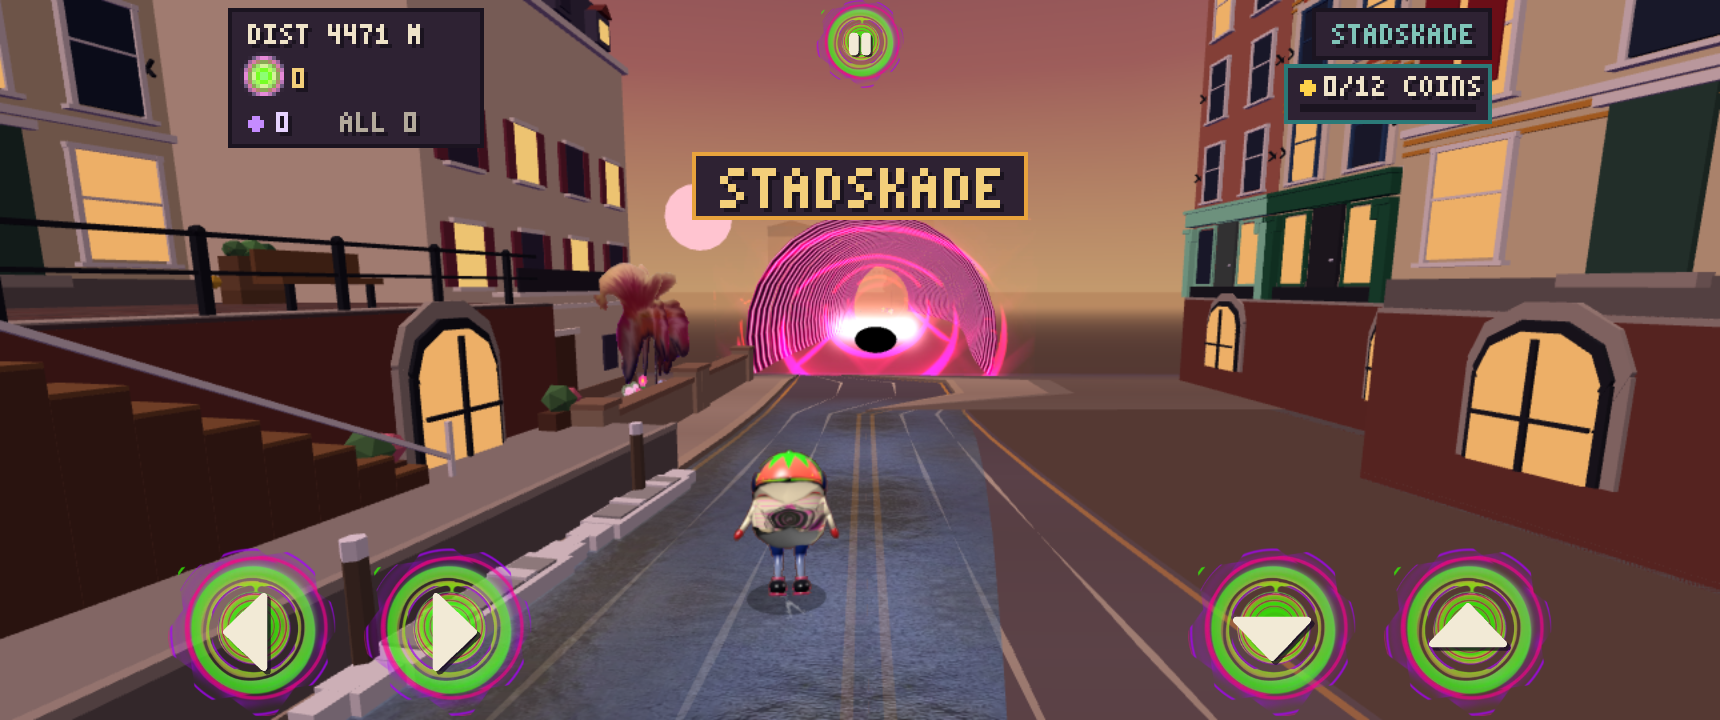
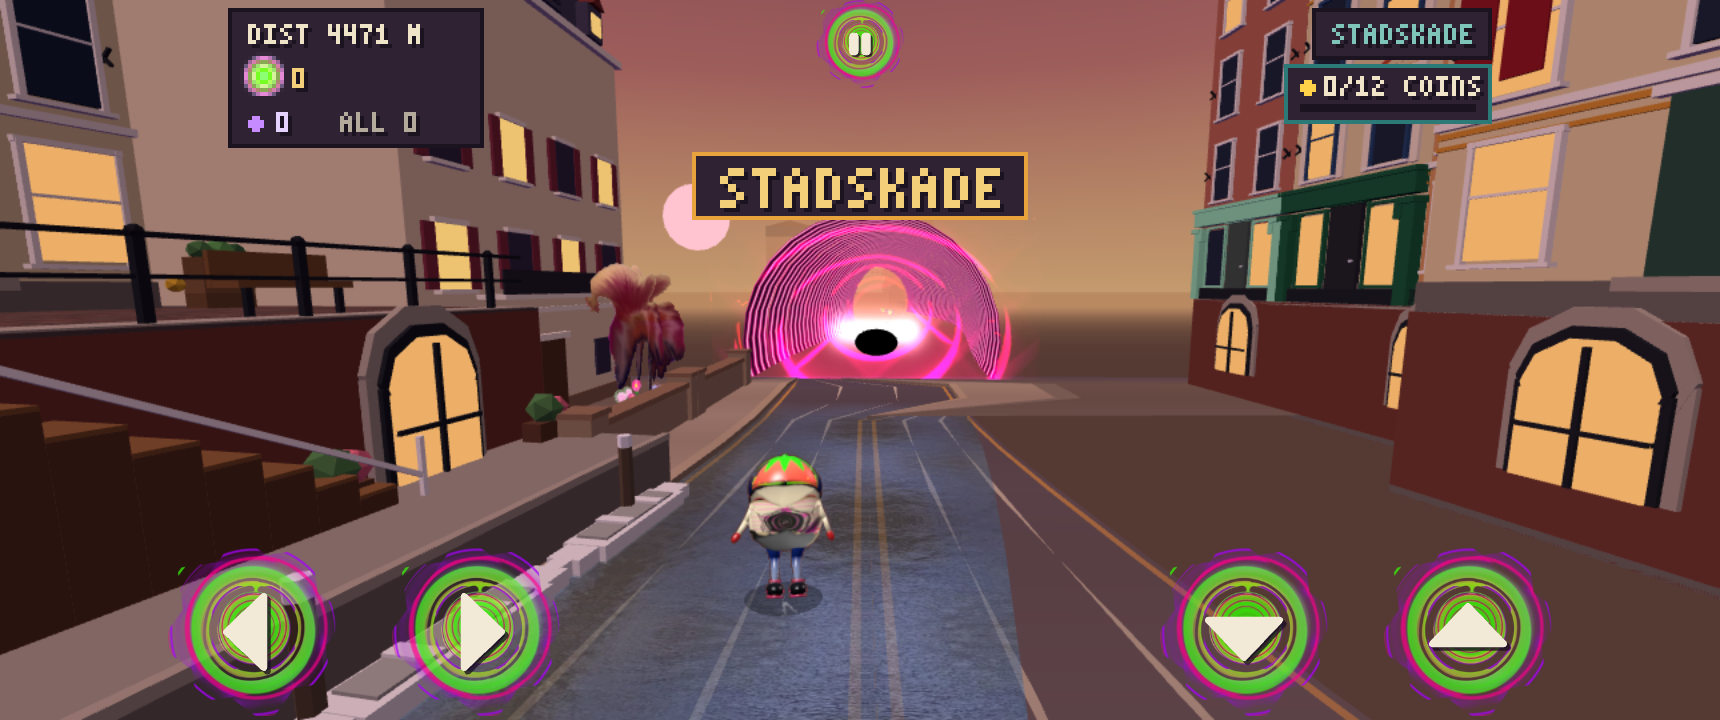
Touch buttons: 10 px of space inside each pair (left/right, slide/jump), outer buttons stay at the edges; capture

diff --git a/tests/qa3d_controls.js b/tests/qa3d_controls.js
@@ -71,7 +71,7 @@ const res = []; const T = (n, ok, i = '') => { res.push(ok); console.log((ok ? '
   T('a pressed button EASES: a frame after the press the left button is ' + U.ease1[0] + ' wide (not yet 46.2), half a second (30 frames) later ' + U.ease2[0] + ' (1.1 x 42 = 46.2) and lit (shadow glow ' + U.glow.toFixed(1) + ' px), and eased back down when released (' + U.back1[0] + ' then ' + U.back2[0] + '); the others stay 42 (' + U.ease2.slice(1).join(', ') + '); nothing is drawn off touch devices (' + U.inkNoTouch + ') or outside play (' + U.inkNotPlay + '), and a fade-in covers them (alpha ' + U.fade + ')',
     U.ease1[0] > 42 && U.ease1[0] < 45.5 && Math.abs(U.ease2[0] - 46.2) < 0.2 && U.glow > 1 && U.back1[0] > 42.2 && U.back1[0] < 46.1 && Math.abs(U.back2[0] - 42) < 0.4 && U.ease2.slice(1).filter(w => Math.abs(w - 42) < 0.01 || Math.abs(w - 22) < 0.01).length === 4 && U.inkOn && U.inkNoTouch === 0 && U.inkNotPlay === 0 && U.fade < 0.9, JSON.stringify({ ease1: U.ease1, ease2: U.ease2, back1: U.back1, back2: U.back2, glow: U.glow, fade: U.fade }));
   T('touch buttons: the hit boxes grew with the buttons (46 x 42 instead of 38 x 32 for left, right, slide and jump, 30 x 18 for pause), each centred on its picture, inside the 320 x 180 screen and clear of each other and of the HOP OFF button of the scooter (inert on foot); without the smooth canvas the pixel buttons are drawn as before (' + (U.fallback.sheet || []).join(' x ') + ' sheet, ' + U.fallback.sizes.join(' / ') + ' px, a held one ' + U.fallback.held + ')',
-    U.boxes === 'left:-15:137:46:42 right:34:137:46:42 slide:240:137:46:42 jump:289:137:46:42 pause:145:2:30:18 scooter:132:154:56:20' && U.inside && U.apart && U.fallback.sheet && U.fallback.sheet[0] === 64 && U.fallback.sheet[1] === 42 && U.fallback.sizes.filter(w => w === 42).length === 4 && U.fallback.sizes.filter(w => w === 22).length === 1 && U.fallback.held === 46, U.boxes);
+    U.boxes === 'left:-15:137:46:42 right:41:137:46:42 slide:233:137:46:42 jump:289:137:46:42 pause:145:2:30:18 scooter:132:154:56:20' && U.inside && U.apart && U.fallback.sheet && U.fallback.sheet[0] === 64 && U.fallback.sheet[1] === 42 && U.fallback.sizes.filter(w => w === 42).length === 4 && U.fallback.sizes.filter(w => w === 22).length === 1 && U.fallback.held === 46, U.boxes);
   // a real touch on the smooth button goes through to the game: on a phone-like page (touch, 2x), a tap on the jump button jumps and a press on the left button steers
   { const ctx = await b.newContext({ viewport: { width: 640, height: 360 }, deviceScaleFactor: 2, hasTouch: true, isMobile: true }), pt = await ctx.newPage(); const e2 = []; pt.on('pageerror', e => e2.push(e.message));
     await pt.goto(process.env.TEST_URL || 'http://localhost:' + PORT + '/', { timeout: 90000 }); await pt.waitForFunction(() => window.__wf, null, { timeout: 90000 }); await pt.waitForTimeout(800);

diff --git a/src/game.js b/src/game.js
@@ -12,8 +12,8 @@ const BTN = {
 // touch controls (canvas pixels): hold left/right to steer, tap jump/slide/pause; each finger is tracked separately
 const TOUCH = [
   { id: 'left',  x: -15,  y: 137, w: 46, h: 42 },        // (pushed out to the screen edges, away from the centre, at the user's request; a little bigger than before, to match the 42 px ring picture they wear: 46 x 42 instead of 38 x 32)
-  { id: 'right', x: 34,  y: 137, w: 46, h: 42 },
-  { id: 'slide', x: 240, y: 137, w: 46, h: 42 },
+  { id: 'right', x: 41,  y: 137, w: 46, h: 42 },
+  { id: 'slide', x: 233, y: 137, w: 46, h: 42 },
   { id: 'jump',  x: 289, y: 137, w: 46, h: 42 },
   { id: 'pause', x: 145, y: 2,   w: 30, h: 18 },
   { id: 'scooter', x: 132, y: 154, w: 56, h: 20 },       // 'hop off' (only while riding the scooter); getting on is a tap on the indicator over a parked scooter
